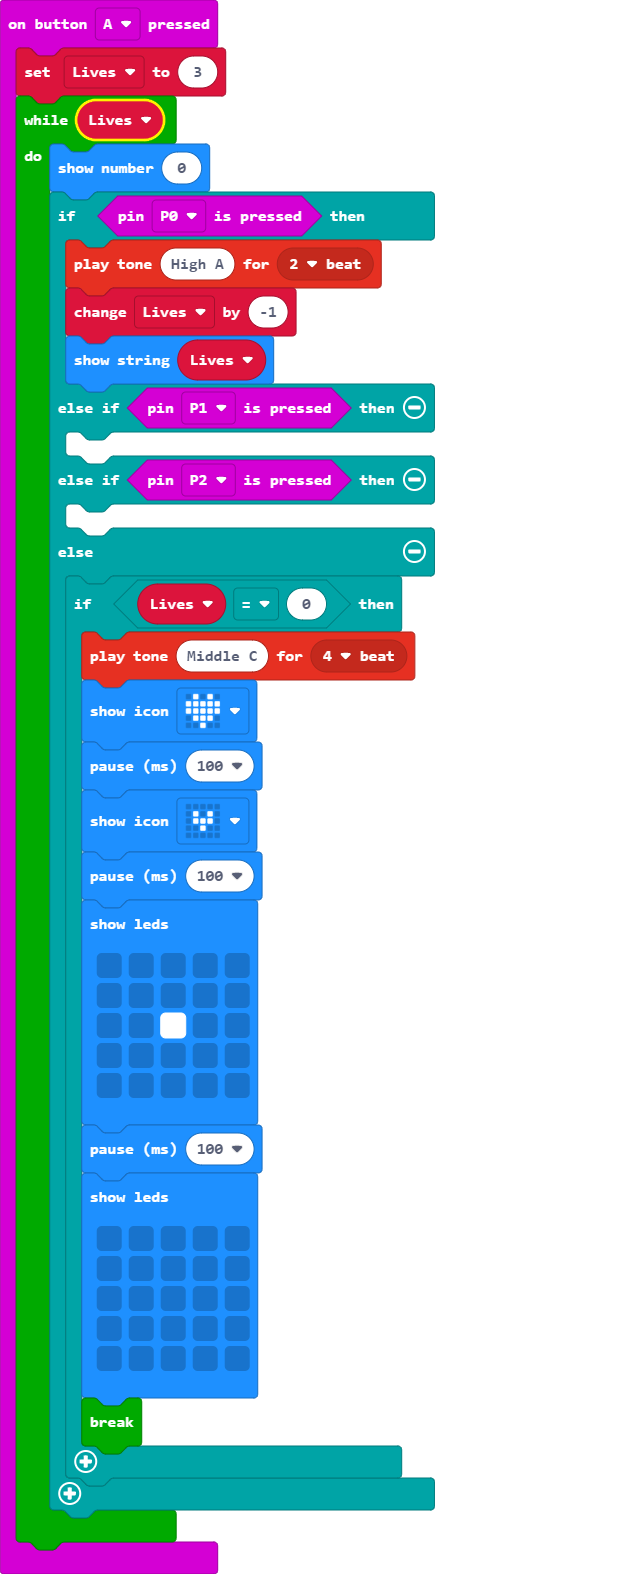
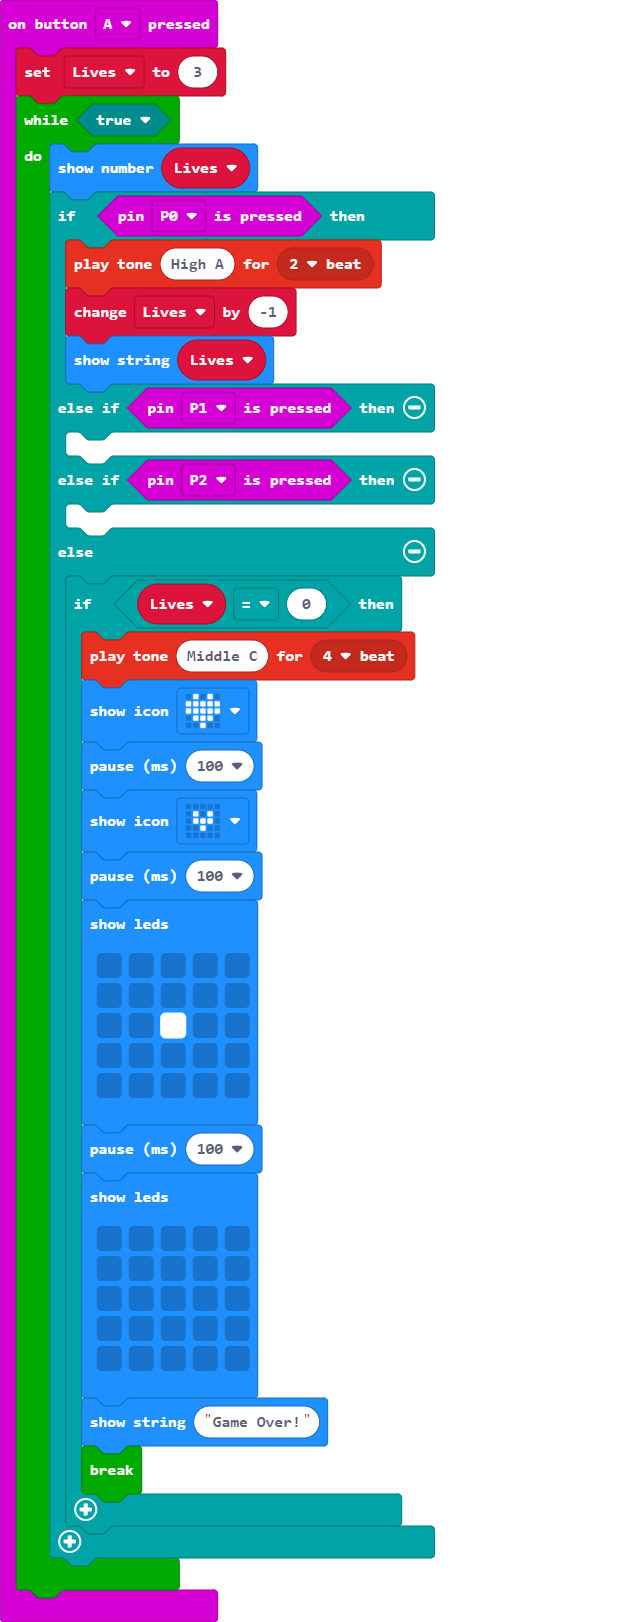
Update main.blocks, main.ts, main.py

Changed region(s): [[0.0305, 0.0, 0.7014, 0.9962]]

diff --git a/main.ts b/main.ts
@@ -1,8 +1,8 @@
 let Lives = 0
 input.onButtonPressed(Button.A, function () {
     Lives = 3
-    while (Lives) {
-        basic.showNumber(0)
+    while (true) {
+        basic.showNumber(Lives)
         if (input.pinIsPressed(TouchPin.P0)) {
             music.playTone(880, music.beat(BeatFraction.Double))
             Lives += -1
@@ -33,6 +33,7 @@ input.onButtonPressed(Button.A, function () {
                     . . . . .
                     . . . . .
                     `)
+                basic.showString("Game Over!")
                 break;
             }
         }

diff --git a/main.py b/main.py
@@ -1,11 +1,39 @@
+Lives = 0
+
 def on_button_pressed_a():
-    while True:
+    global Lives
+    Lives = 3
+    while Lives:
+        basic.show_number(0)
         if input.pin_is_pressed(TouchPin.P0):
-            pass
+            music.play_tone(880, music.beat(BeatFraction.DOUBLE))
+            Lives += -1
+            basic.show_string("" + str((Lives)))
         elif input.pin_is_pressed(TouchPin.P1):
             pass
         elif input.pin_is_pressed(TouchPin.P2):
             pass
         else:
-            pass
+            if Lives == 0:
+                music.play_tone(262, music.beat(BeatFraction.BREVE))
+                basic.show_icon(IconNames.HEART)
+                basic.pause(100)
+                basic.show_icon(IconNames.SMALL_HEART)
+                basic.pause(100)
+                basic.show_leds("""
+                    . . . . .
+                                        . . . . .
+                                        . . # . .
+                                        . . . . .
+                                        . . . . .
+                """)
+                basic.pause(100)
+                basic.show_leds("""
+                    . . . . .
+                                        . . . . .
+                                        . . . . .
+                                        . . . . .
+                                        . . . . .
+                """)
+                break
 input.on_button_pressed(Button.A, on_button_pressed_a)
